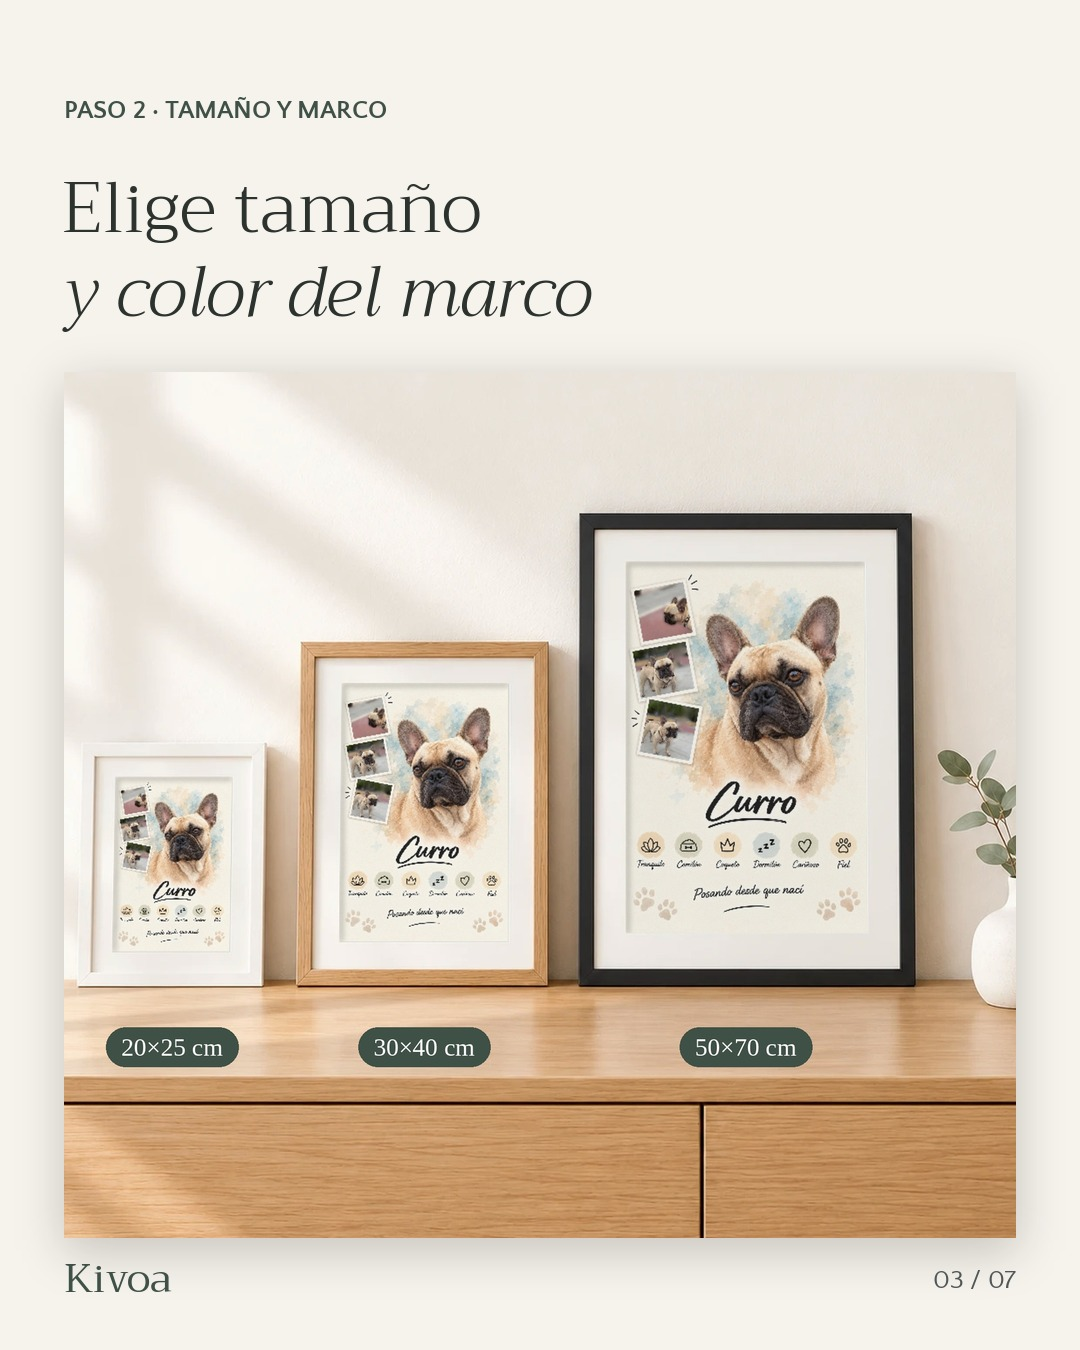
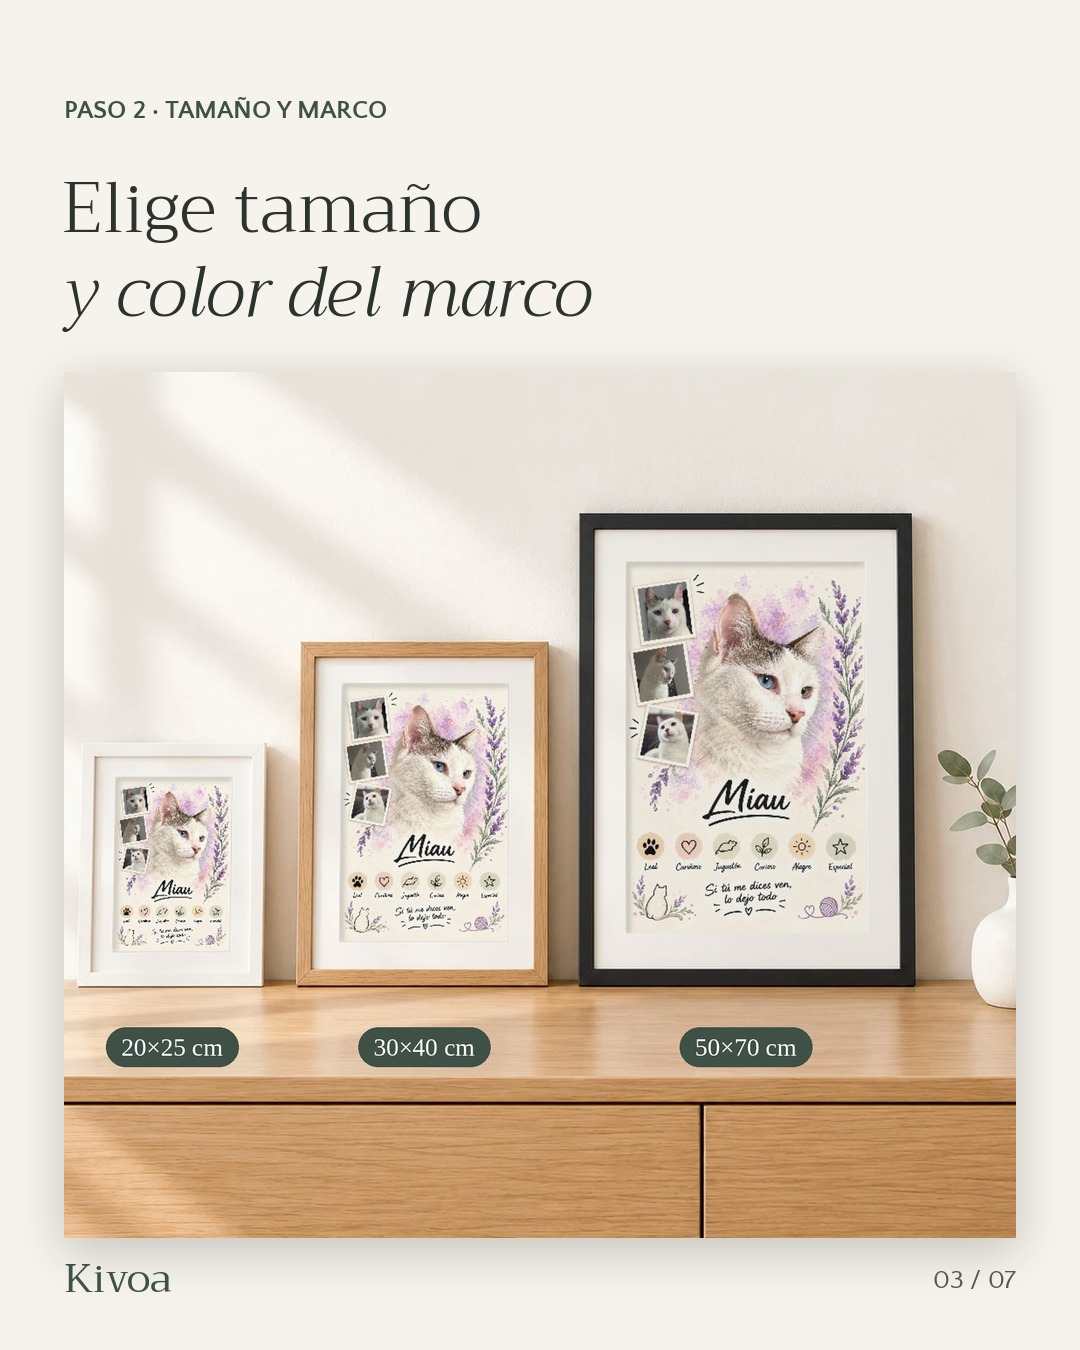
Publicación 10: un caso distinto en cada paso (Miau, Sonic, Penny)
Claude-Session: https://claude.ai/code/session_01EXxT3oYALMgVYQXs29BEaV

Changed region(s): [[0.5806, 0.4356, 0.7944, 0.6844], [0.3056, 0.4978, 0.4889, 0.6844], [0.0917, 0.56, 0.2139, 0.7156]]

diff --git a/generador/redes/publicaciones.py b/generador/redes/publicaciones.py
@@ -1002,14 +1002,14 @@ def publicacion_10():
     # 3 · Tamaño y marco
     im = lienzo()
     paso(im, 2, 'Tamaño y marco', 'Elige tamaño\ny color del marco')
-    foto_en_zona(im, abrir(F('clasico-2-tres-marcos.jpg')), cy=.578, zoom=1.15)   # sin el título de la imagen
+    foto_en_zona(im, abrir(F('lavanda-2-tres-marcos.jpg')), cy=.578, zoom=1.15)   # sin el título de la imagen
     diapos.append(im)
 
     # 4 · Sus fotos y sus datos
     im = lienzo()
     paso(im, 3, 'Sus fotos', 'Sube sus fotos y\ncuéntanos cómo es')
-    C = lambda n: A('casos', 'curro', n)
-    polaroid(im, abrir(C('foto-principal.jpg')), (300, 640), 360, -5, 'la principal', foco=(.55, .5))
+    C = lambda n: A('casos', 'sonic', n)
+    polaroid(im, abrir(C('foto-principal.jpg')), (300, 640), 360, -5, 'la principal', foco=(.5, .4))
     polaroid(im, abrir(C('extra-1.jpg')), (640, 560), 250, 6, foco=(.5, .5))
     polaroid(im, abrir(C('extra-2.jpg')), (820, 760), 230, -4, foco=(.5, .5))
     d = ImageDraw.Draw(im)
@@ -1020,10 +1020,10 @@ def publicacion_10():
         y += 76
     diapos.append(im)
 
-    # 5 · Vista previa
+    # 5 · Vista previa (Penny: la diapositiva siguiente es su cuadro real ya en casa)
     im = lienzo()
     paso(im, 4, 'La vista previa', 'En 48 h te enviamos\nsu vista previa')
-    foto_en_zona(im, abrir(F('clasico-5-vista-previa.jpg')), cx=.5, cy=.578, zoom=1.15)
+    foto_en_zona(im, abrir(F('rosa-5-vista-previa.jpg')), cx=.5, cy=.578, zoom=1.15)
     diapos.append(im)
 
     # 6 · En casa
